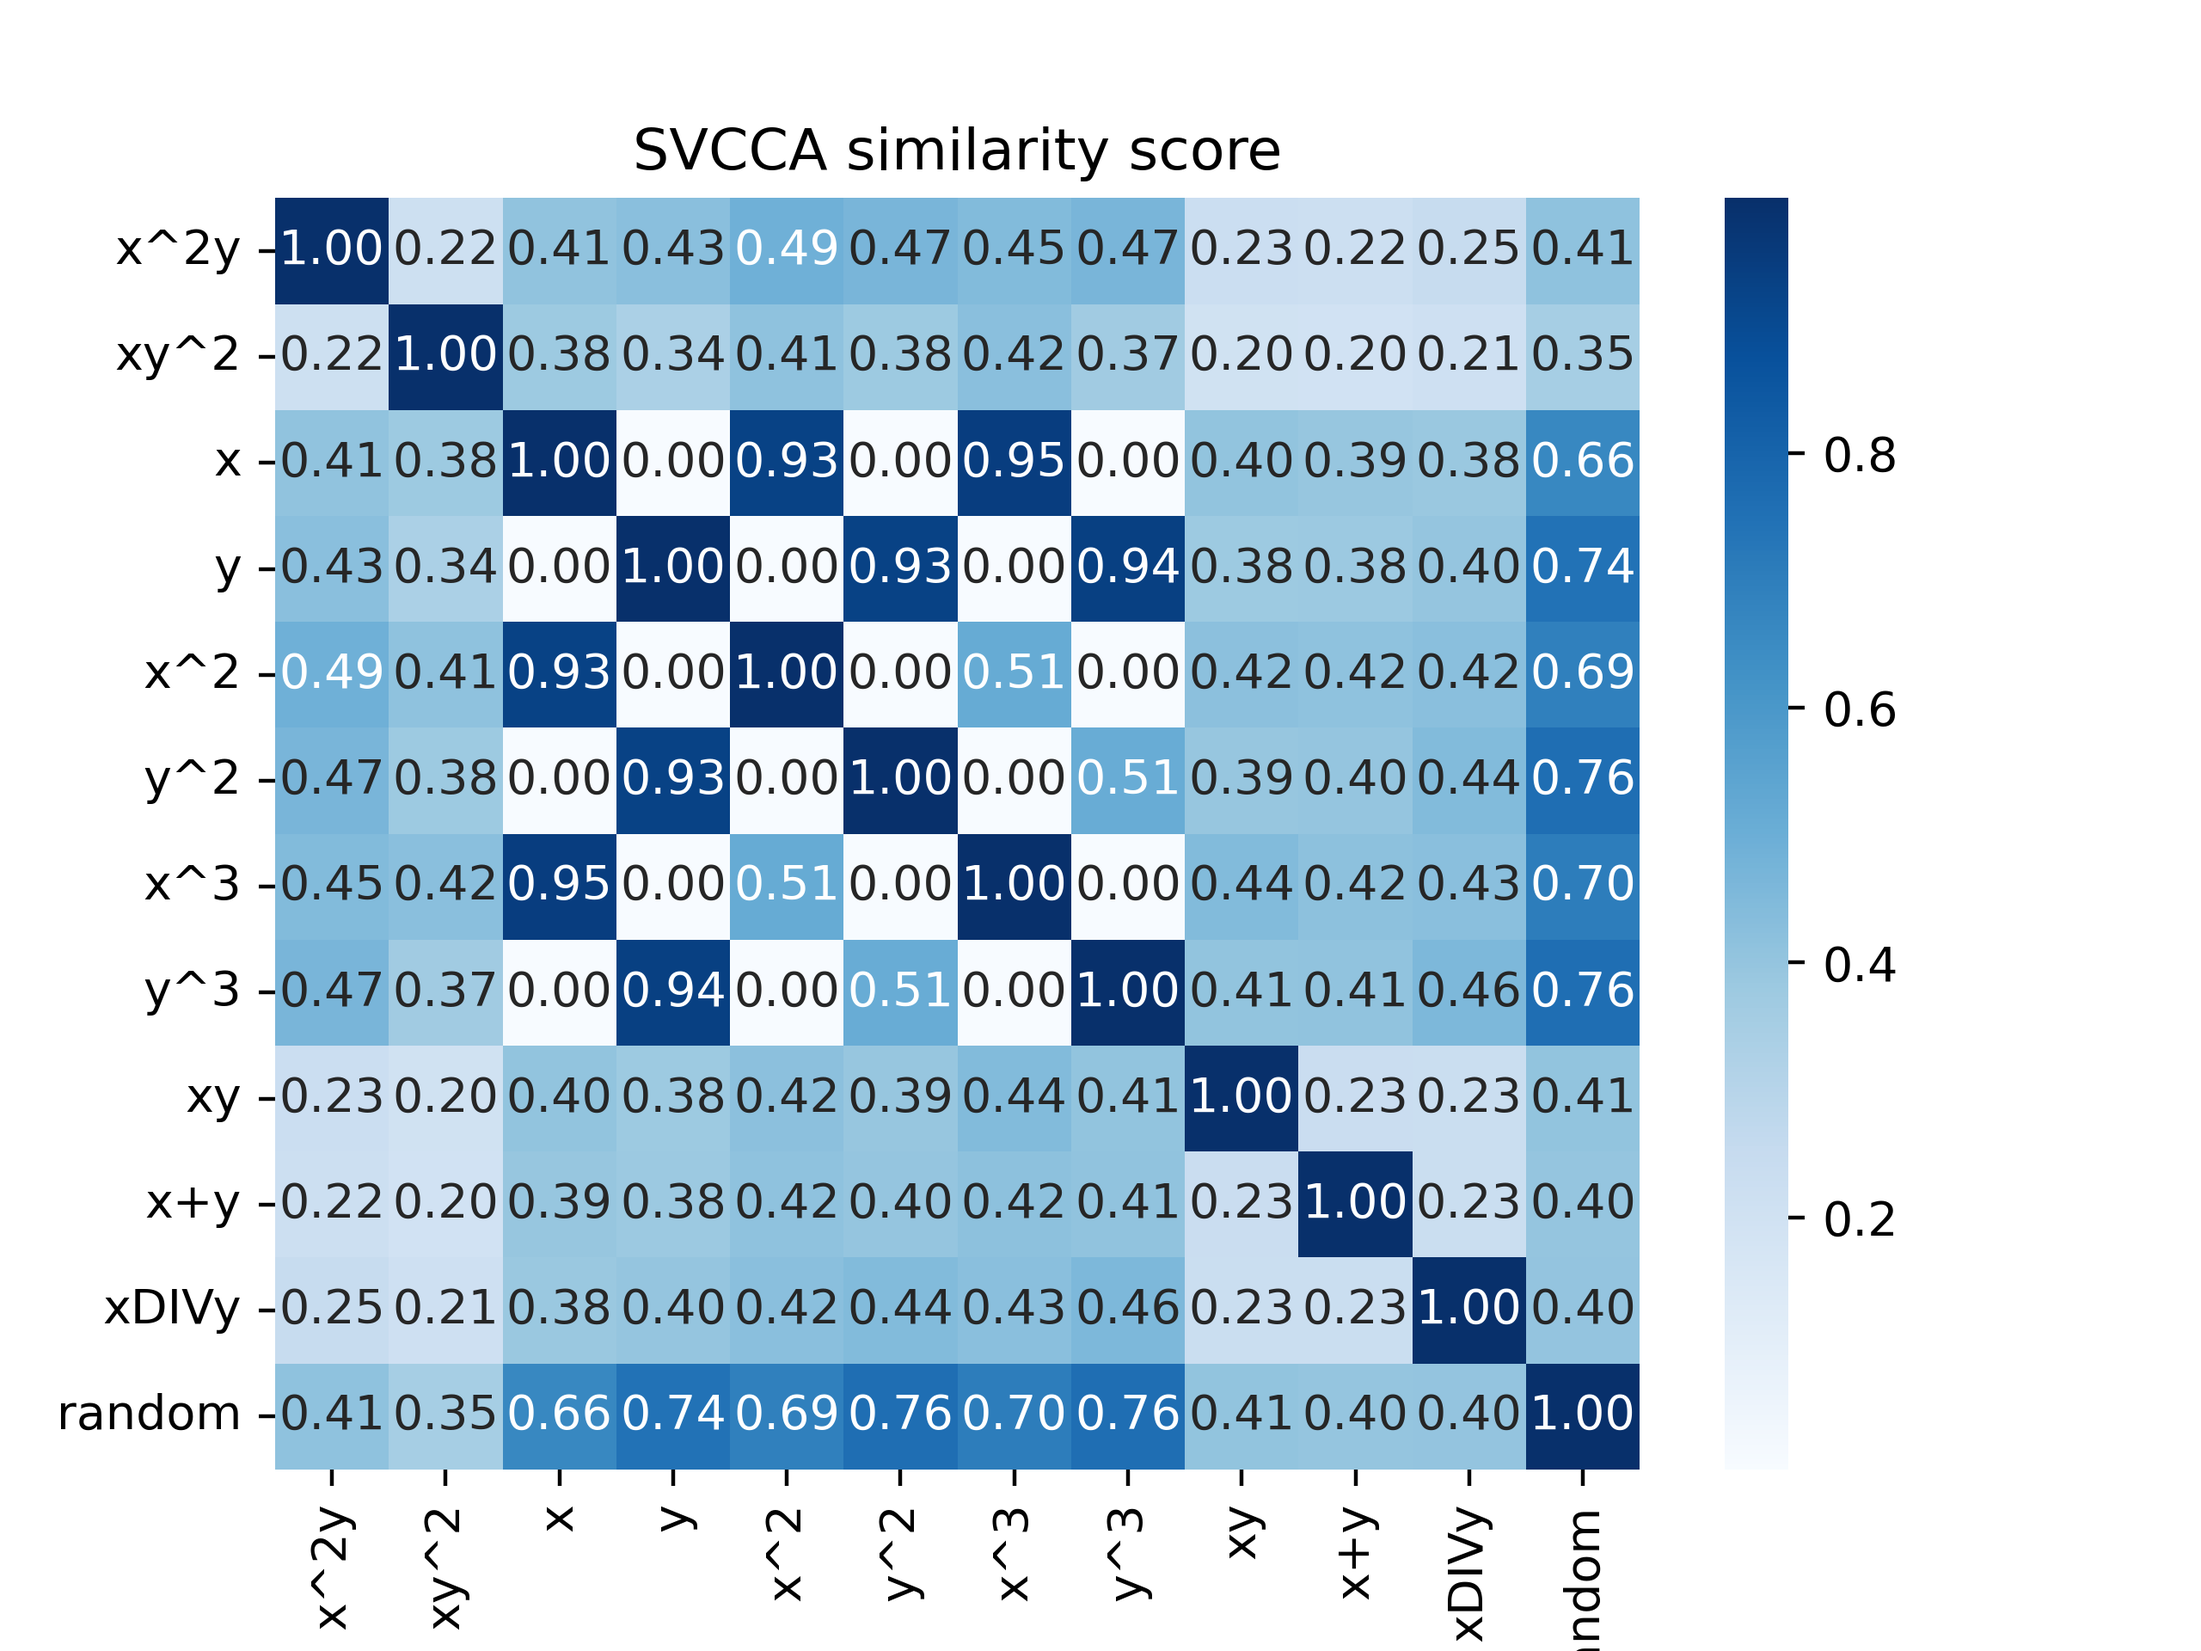
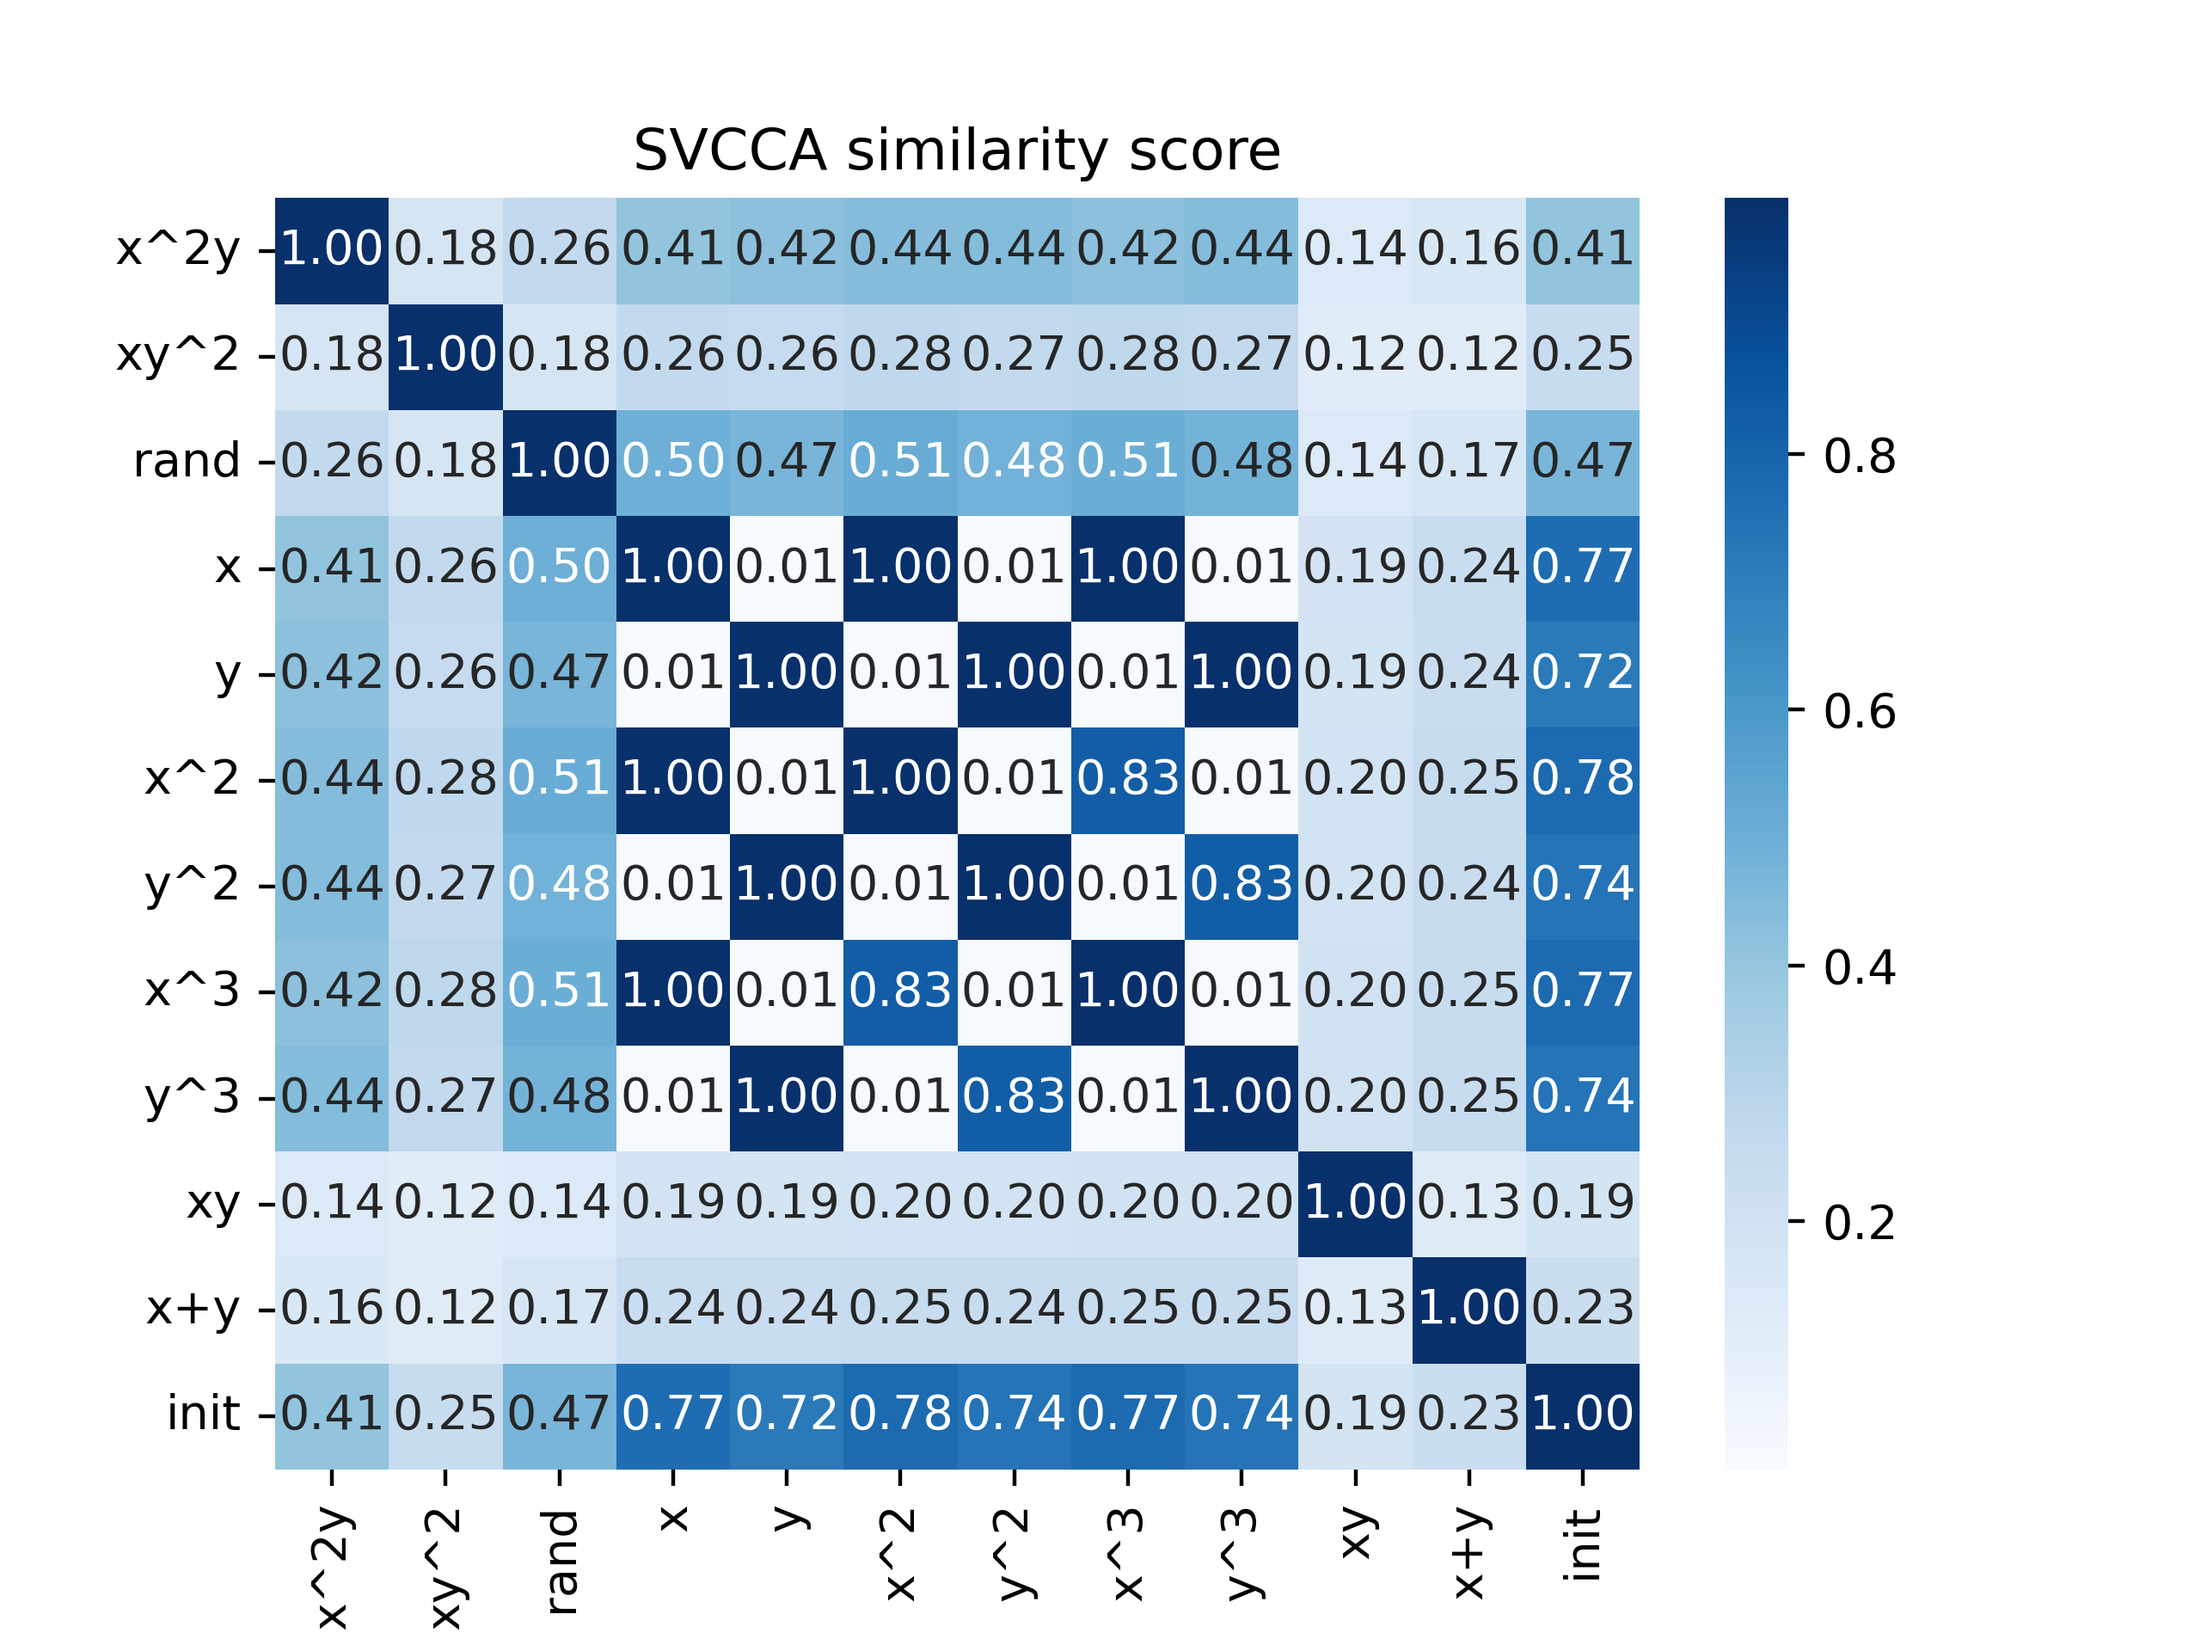
working on baselines

diff --git a/similarity.py b/similarity.py
@@ -7,7 +7,7 @@ import seaborn as sns
 import numpy as np
 
 torch.set_printoptions(threshold=10_000)
-np.set_printoptions(precision=2)
+np.set_printoptions(precision=3)
 
 def svd_reduction(M):
     M-=np.mean(M, axis=1, keepdims=True)
@@ -15,7 +15,7 @@ def svd_reduction(M):
     sv_sum = np.sum(s)
     i = 0
     quality_ratio = 0
-    while i < len(s) and quality_ratio < 0.99:
+    while i < len(s) and quality_ratio < 0.999:
         i += 1
         quality_ratio = np.sum(s[:i])/sv_sum
     M_reduced = np.dot(U[:, :i], s[:i]*np.eye(i))
@@ -23,15 +23,15 @@ def svd_reduction(M):
 def main():
     with torch.no_grad():
         #device = torch.device("cuda" if torch.cuda.is_available() else "cpu")
-
-        for filename in ["10"]:#, "100", "1000", "10000", "100000", "final"]:
+        ops={**other, **monomial, **composite}
+        for filename in ["10", "100", "1000", "10000", "100000", "final"]:
             operation_names=[]
             representations={}
-            for key, value in {**other, **monomial, **composite}.items():
+            for key, value in ops.items():
                 operation_names.append(key)
                 representations[key]=torch.load(f'representations/{key}/{filename}.pt').cpu().numpy()
-            representations['random']=torch.load('old/representations/x^2/random.pt').cpu().numpy()
-            operation_names.append('random')
+            representations['init']=torch.load('representations/init.pt').cpu().numpy()
+            operation_names.append('init')
             results=np.zeros((len(operation_names), len(operation_names)))
             for i in range(len(operation_names)):
                 for j in range(len(operation_names)):
@@ -39,6 +39,7 @@ def main():
                     y=representations[operation_names[j]]
                     x=svd_reduction(x).T
                     y=svd_reduction(y).T
+                    #print(x.shape, y.shape)
                     svcca_results = get_cca_similarity(x, y, epsilon=1e-10, verbose=False)
                     results[i,j]=svcca_results['cca_coef1'].mean()
             print(results)
@@ -46,14 +47,22 @@ def main():
             figure = hm.get_figure()
             figure.savefig('figures/heatmap_'+filename+'.png', dpi=400)
             figure.clf()
-        for operation in operation_names:
+        representations={}
+        results=np.zeros((len(operation_names)-1, len(operation_names)-1))
+        for operation in operation_names[:-1]:
             eq_token = 97
             op_token = 97 + 1
-            data = generate_data(97, eq_token, op_token, operation)
-            print(data, data.shape)
-        #lm = linear_model.LinearRegression()
-        #x=representations['x+y'].cpu().numpy()
-        #lm.fit(x_n, x)
-        #print(r2_score(lm.predict(x_n), x, multioutput='variance_weighted'))
+            representations[operation] = generate_data(97, eq_token, op_token, ops[operation])[-1]
+            print(operation)
+        for i in range(len(operation_names)-1):
+            for j in range(len(operation_names)-1):
+                xi=representations[operation_names[i]].float()
+                xj=representations[operation_names[j]].float()
+                results[i,j]=torch.sum(torch.eq(xi, xj))/(97**2)
+                #results[i,j]=torch.dot(xi, xj)/torch.norm(xi, 2)/torch.norm(xj, 2)
+        hm=sns.heatmap(results, annot=True, cmap='Blues', fmt='.2f', xticklabels=operation_names[:-1], yticklabels=operation_names[:-1]).set_title("Overlap score")
+        figure = hm.get_figure()
+        figure.savefig('figures/heatmap_overlap.png', dpi=400)
+        figure.clf()           
 if __name__ == "__main__":
     main()

diff --git a/store_representations.py b/store_representations.py
@@ -1,8 +1,7 @@
 from models import Decoder, Block
 from argparse import ArgumentParser
 import torch
-from operations import monomial, composite, other
-from train import generate_data
+from operations import monomial, composite, other, generate_data
 import os
 #from svcca.cca_core import get_cca_similarity
 #from similarity import svd_reduction
@@ -12,7 +11,16 @@ def main(args):
 
     with torch.no_grad():
         device = torch.device("cuda" if torch.cuda.is_available() else "cpu")
-
+        eq_token = args.p
+        op_token = args.p + 1
+        data = generate_data(args.p, eq_token, op_token, monomial['x']).to(device)
+        model = Decoder(
+                    dim=128, num_layers=2, num_heads=4, num_tokens=args.p + 2, seq_len=5
+                ).to(device)
+        repr=model.extract_representation(data[:-1])
+        print(repr.shape)
+        torch.save(repr[-1], f'representations/random.pt')
+'''
         for key, value in {**other, **monomial, **composite}.items():
             if not os.path.exists(f'representations/{key}'):
                 os.makedirs(f'representations/{key}')
@@ -29,7 +37,6 @@ def main(args):
             torch.save(repr, f'representations/{key}/final.pt')
             print(torch.argmax(model(data[:-1])[-1], 1).reshape(97,96))
 
-'''
         eq_token = args.p
         op_token = args.p + 1
         data = generate_data(args.p, eq_token, op_token, composite['xy']).to(device)

diff --git a/train.py b/train.py
@@ -25,7 +25,6 @@ def main(args):
     ops={**operations.monomial, **operations.composite, **operations.other}
     score={}
     representations={}
-    ops1={'x', 'y', 'x^2', 'x+y', 'xy'}
     '''
     for key, value in ops.items():
         score[key]=[]
@@ -35,6 +34,8 @@ def main(args):
         os.makedirs(f'weights/{args.operation}')
     if not os.path.exists(f'figures/{args.operation}'):
         os.makedirs(f'figures/{args.operation}')
+    if not os.path.exists(f'representations/{args.operation}'):
+        os.makedirs(f'representations/{args.operation}')
 
     device = torch.device("cuda" if torch.cuda.is_available() else "cpu")
 
@@ -55,7 +56,7 @@ def main(args):
     # "We train on the binary operation of division mod 97 with 50% of the data
     # in the training set."
     alldata = operations.generate_data(args.p, eq_token, op_token, ops[args.operation])
-    train_idx, valid_idx = torch.randperm(alldata.shape[1]).split(alldata.shape[1] // 2)
+    train_idx, valid_idx = torch.randperm(alldata.shape[1]).split((alldata.shape[1] // 2)+1)
     train_data, valid_data = alldata[:, train_idx], alldata[:, valid_idx]
 
     # For most experiments we used AdamW optimizer with learning rate 10−3,

diff --git a/operations.py b/operations.py
@@ -27,21 +27,24 @@ def x2y(x,y):
 def xy2(x,y):
     return x*y*y
 
-other={"x^2y":x2y, "xy^2": xy2}
+
+
+other={"x^2y":x2y, "xy^2": xy2, "rand":"rand"}
 monomial={"x":x1,"y":y1,"x^2": x2, "y^2": y2, "x^3": x3, "y^3": y3}
-composite={"xy": multiplication, "x+y": addition, "xDIVy": division}
+composite={"xy": multiplication, "x+y": addition}
 
 def generate_data(p, eq_token, op_token, operation):
-    """
-    x◦y = x/y (mod p) for 0 ≤ x < p, 0 < y < p
-    """
     x = torch.arange(p)
-    y = torch.arange(1, p)
+    y = torch.arange(p)
     x, y = torch.cartesian_prod(x, y).T
 
     eq = torch.ones_like(x) * eq_token
     op = torch.ones_like(x) * op_token
-    result = operation(x,y) % p
+    print(x.shape)
+    if operation=="rand":
+        result=torch.randint(0, p, size=(p*p,))
+    else:
+        result = operation(x,y) % p
 
     # "All of our experiments used a small transformer trained on datasets of
     # equations of the form a◦b = c, where each of “a”, “◦”, “b”, “=”, and “c”

diff --git a/grok.py b/grok.py
@@ -2,7 +2,7 @@ from operations import monomial, composite, other
 import subprocess
 
 for key, value in {**other, **monomial, **composite}.items():
-    #if key=='xy':
-    subprocess.check_output(['python', 'train.py', f'--operation={key}'])
+    if key=='rand':
+        subprocess.check_output(['python', 'train.py', f'--operation={key}'])
 
 #subprocess.check_output(['python', 'store_representations.py'])
